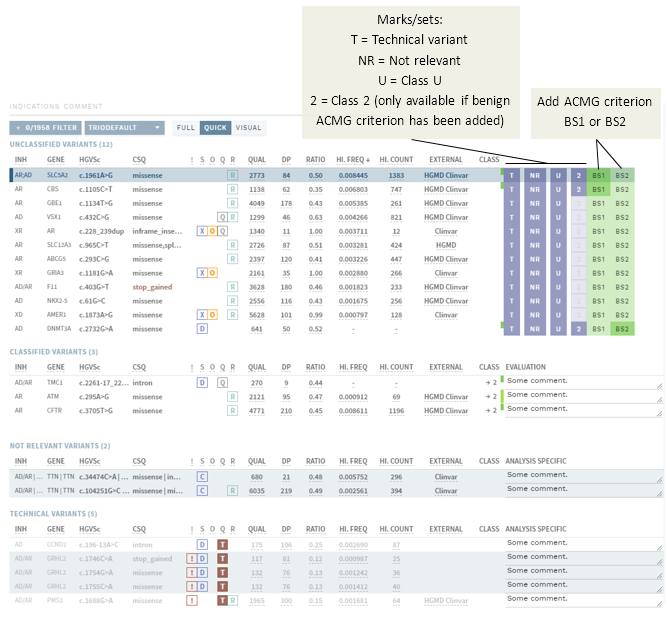
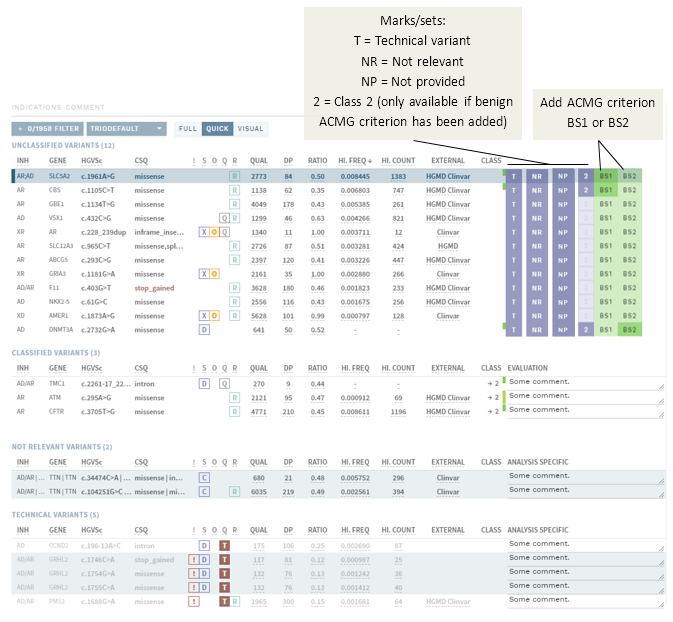
[docs] Added release note and changes to manual for !477, release notes for !433, !469, !474, !478

diff --git a/docs/releasenotes/README.md b/docs/releasenotes/README.md
@@ -20,6 +20,24 @@ Release date: TBD
 
 This release includes many smaller fixes and improvements. 
 
+#### Redefined classification choices
+
+<!-- MR !477 -->
+Variant classification choices have been redefined in line with [ClinVar definitions](https://www.ncbi.nlm.nih.gov/clinvar/docs/clinsig/): 
+- `CLASS U` was renamed to `NOT PROVIDED`, meant for recording various information (literature/research/clinical/phenotyping) without interpreting clinical significance. It is recommended to configure this class to be immediately outdated.
+- The choice `RISK FACTOR` was added, meant for variants that are interpreted not to cause a disorder but to increase the risk.
+
+The classification choices are now: 
+
+<div style="text-indent: 4%;">
+    <img src="./img/1-12-select-class.png">
+    <br>
+    <div style="font-size: 80%;">
+        <strong>Figure: </strong>Redefined variant classification choices.
+    </div>
+    <br>
+</div>
+
 #### Improvements to history
 
 <!-- MR !454 -->
@@ -48,12 +66,12 @@ ELLA now displays a message if a saved variant in an ongoing analysis has been u
 
 ### All changes
 
-<!-- MR !429: no release note, but needs technical docs?
-- Improved analysis file for import -->
+<!-- MR !429, !443, !446, !462, !464, !468, !469, !470, !474, !478 -->
+- Several fixes and improvements to development environment and code base.
+<!-- MR !433 -->
+- Search result limit has been increased from 10 to 100.
 <!-- MR !435 -->
 - Added more external links in the gene information popup (ClinGen, PanelApp and ACMG incidental findings).
-<!-- MR !443, !446, !462, !464, !468, !470 -->
-- Several fixes and improvements to development environment and code base.
 <!-- MR !444 -->
 - Made allele list in top bar scrollable when number of transcripts exceed 3. 
 <!-- MR !450 TODO: QA, update manual/top-bar.html#gene-information -->
@@ -67,7 +85,7 @@ ELLA now displays a message if a saved variant in an ongoing analysis has been u
 <!-- MR !456 TODO: QA, update manual/warnings.html#annotation-warnings -->
 - Display message when variant in ongoing analysis has been updated by another user.
 <!-- MR !458 TODO: QA, update manual/warnings.html -->
-- Collision warnings are now separated from variant warnings on the Classification page.
+- Collision warnings are now separated from variant warnings on the CLASSIFICATION page.
 <!-- MR !463 TODO: QA, update manual/data-import-reanalyses.html#custom-reanalyses-from-sample-repository -->
 - It is now possible to select which user groups an imported custom gene panel analysis should be available to. 
 <!-- MR !465 -->
@@ -76,6 +94,8 @@ ELLA now displays a message if a saved variant in an ongoing analysis has been u
 - Added possibility for showing attachments on the INFO page.
 <!-- MR !475 -->
 - Updated HGMD Pro links to point to new base url. 
+<!-- MR !477 -->
+- [Redefined classification choices in line with ClinVar definitions](#redefined-classification-choices).
 
 
 ## Version 1.11.3

diff --git a/docs/manual/quick-classification.md b/docs/manual/quick-classification.md
@@ -10,14 +10,14 @@ Instead of performing a full classification, you may instead choose the Quick cl
 
 <div style="text-indent: 4%;"><img src="./img/sidebar_modes_quick.png"></div>
 
-This feature is particularly well suited for workflows with large gene panels and many variants. The Quick classification view gives a summary of the most important information necessary for [marking variants](/manual/evidence-sections.html#mark-as-verified-technical-not-relevant) as TECHNICAL (`T`) or NOT RELEVANT (`NR`), or [classifying](/manual/classification-section.html#set-variant-class) as CLASS U (`U`) or CLASS 2 (`2`), and gives you buttons to perform those actions directly:
+This feature is particularly well suited for workflows with large gene panels and many variants. The Quick classification view gives a summary of the most important information necessary for [marking variants](/manual/evidence-sections.html#mark-as-verified-technical-not-relevant) as TECHNICAL (`T`) or NOT RELEVANT (`NR`), or [classifying](/manual/classification-section.html#set-variant-class) as NOT PROVIDED (`NP`) or CLASS 2 (`2`), and gives you buttons to perform those actions directly:
 
 <div style="text-indent: 4%;"><img src="./img/quick_classification.png"></div>
 <br>
 
 The `2` button is disabled until you have added at least one benign ACMG criterion; the most commonly used criteria `BS1` and `BS2` are available as quick buttons. 
 
-Clicking one of the `T`, `NR`, `U` or `2` buttons moves the variant down to the respective section in the sidebar. If applicable, add a comment before moving to the next variant; this will be reflected in the comment field on the CLASSIFICATION page corresponding to the column header (e.g. ANALYSIS SPECIFIC).
+Clicking one of the `T`, `NR`, `NP` or `2` buttons moves the variant down to the respective section in the sidebar. If applicable, add a comment before moving to the next variant; this will be reflected in the comment field on the CLASSIFICATION page corresponding to the column header (e.g. ANALYSIS SPECIFIC).
 
 When you are done, and ready to do a more thourough interpretation of any remaining variants, click the `FULL` button at the top of the variant list (see also [Evidence sections](/manual/evidence-sections.html) and [Classification section](/manual/classification-section.html)).
 

diff --git a/docs/manual/acmg-rule-engine.md b/docs/manual/acmg-rule-engine.md
@@ -8,7 +8,7 @@ title: ACMG rules engine
 
 ## Generating suggestions
 
-ELLA suggests ACMG criteria and classifications based on the official guidelines described in [Richards et al. 2015](https://pubmed.ncbi.nlm.nih.gov/25741868). To achieve this, certain ACMG criteria have been split into more granulated gene panel parameters and requirements (REQs), prior mapping of annotation to these codes, as well as structuring data gathered from user evaluation of literature references and studies.
+ELLA suggests ACMG criteria and classifications based on the official guidelines described in [Richards et al. 2015](https://www.nature.com/articles/gim201530). To achieve this, certain ACMG criteria have been split into more granulated gene panel parameters and requirements (REQs), prior mapping of annotation to these codes, as well as structuring data gathered from user evaluation of literature references and studies.
 
 Note that these suggestions do not remove the need for expert judgement: The suggestions generated for both ACMG criteria and variant classifications need to be verified and may be overridden, and you may also add ACMG criteria manually. **Figure 1** below gives an overview of this process:
 
@@ -20,7 +20,7 @@ Note that these suggestions do not remove the need for expert judgement: The sug
     <br>
 </div>
 
-Note that classification suggestions only include class 1-5 (not class U or DR), and any non-ACMG ("other") or ACMG criteria set as "not weighted" are disregarded in the calculation. 
+Note that classification suggestions only include "Class 1-5" (not "Risk factor", "Drug response" or "Not provided"), and any non-ACMG ("Other") or ACMG criteria set as "Not weighted" are disregarded in the calculation. 
 
 ## REQ: Requirements
 

diff --git a/docs/manual/classification-section.md b/docs/manual/classification-section.md
@@ -133,16 +133,24 @@ Based on the particular ACMG criteria you have added, ELLA [suggests a classific
 
 <div style="text-indent: 4%;"><img src="./img/suggested_class.png"></div>
 
+::: warning NOTES
+Suggestions for classification are only made for `CLASS 1-5`, not the other choices below.
+:::
+
 As with suggested criteria, you are free to ignore the suggestion, and you must always actively set a classification yourself before it takes effect. Once you have made a decision, select the corresponding class in the pull-down menu in the section bar:
 
 <div style="text-indent: 4%;"><img src="./img/select_class.png"></div>
 
-If in ANALYSES mode, this moves the variant to CLASSIFIED VARIANTS in the variant side bar.
+The variant classification choices should be interpreted in line with [ClinVar's definitions](https://www.ncbi.nlm.nih.gov/clinvar/docs/clinsig/): 
 
-::: warning NOTES
-- Suggestions are only made for CLASS 1-5.
-- Class U is never outdated, and should be used with caution, as it will be valid for all subsequent samples!
-:::
+Option  | Explanation
+:--- | :---
+`CLASS 1-5` | In accordance with [ACMG guidelines](https://www.nature.com/articles/gim201530).
+`RISK FACTOR` | For variants that are interpreted not to cause a disorder but to increase the risk.
+`DRUG RESPONSE` | For variants that affect a drug response, not a disease.
+`NOT PROVIDED` | For recording various information (e.g. literature findings, research into functional significance, observed phenotypes) without interpreting clinical significance.
+
+If in ANALYSES mode, making a classification selection moves the variant to CLASSIFIED VARIANTS in the variant side bar.
 
 ## Finalize variant
 

diff --git a/docs/technical/README.md b/docs/technical/README.md
@@ -17,7 +17,7 @@ Detailed descriptions of various technical aspects of ELLA are found in these se
 
 ## About ELLA
 
-ELLA is a tool for clinical interpretation of genetic variants, where the user either interprets a **single variant**, or several variants belonging together in an analysis. The result of the interpretation work are **assessments** that include the classification of the variant (1-5, DR, U). The interpretation must be approved by another person in a multi-step **workflow**.
+ELLA is a tool for clinical interpretation of genetic variants, where the user either interprets a **single variant**, or several variants belonging together in an analysis. The result of the interpretation work are **assessments** that include the classification of the variant (Class 1-5, Drug reponse, Risk factor or Not provided). The interpretation must be approved by another person in a multi-step **workflow**.
 
 The assessments are the main product of ELLA. When the same variant(s) is seen in other samples, the previous interpretation can be reused, saving valuable time.
 
